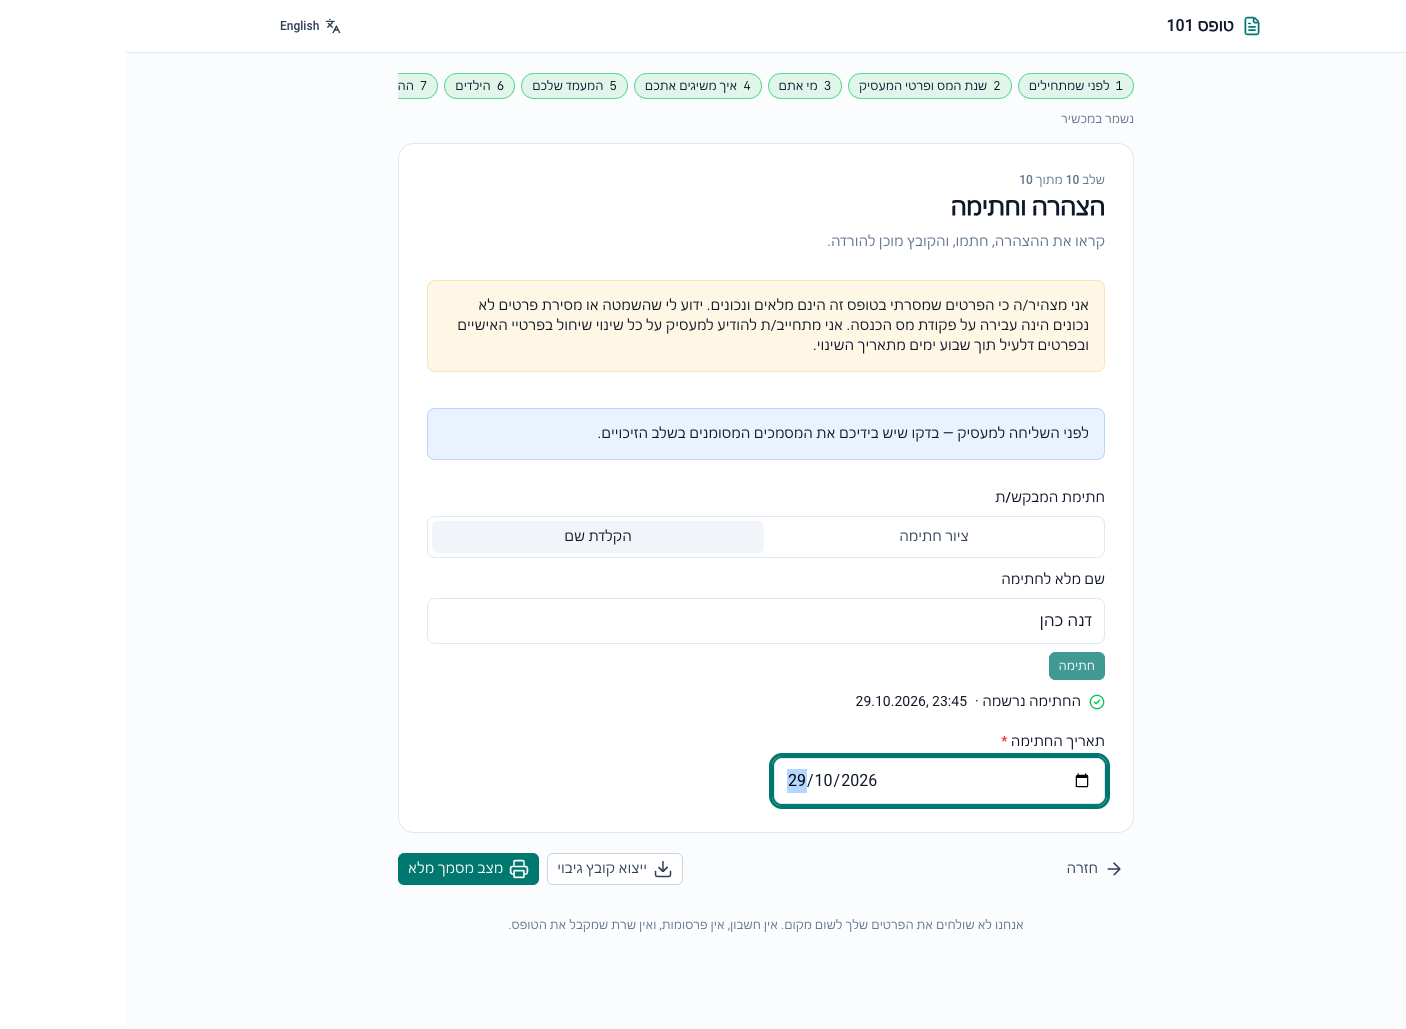
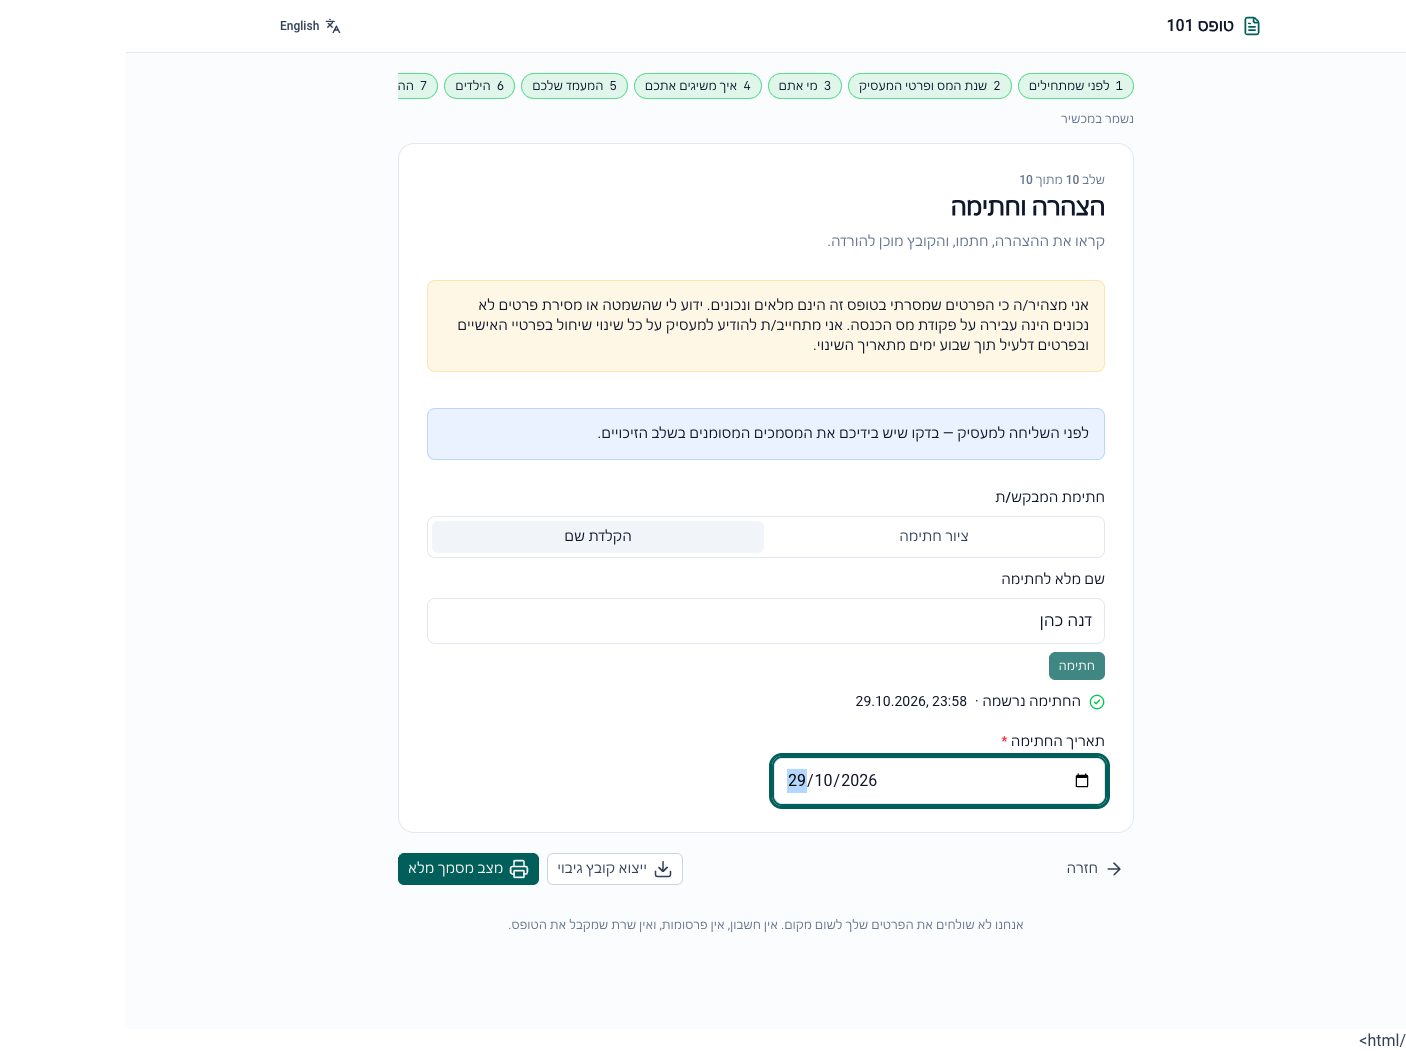
a11y: darker primary (teal-800) for guaranteed AA on solid buttons; CI installs chromium
- fixes the one color-contrast violation CI caught on the sign step
- workflows: playwright install step, 15-min job timeouts

diff --git a/app/assets/css/main.css b/app/assets/css/main.css
@@ -14,7 +14,7 @@
 :root {
   color-scheme: light;
   /* Contrast fix (kb/eng/testing.md): the default Nuxt UI teal fails AA on white. */
-  --ui-primary: var(--color-teal-700);
+  --ui-primary: var(--color-teal-800);
   --ui-text-dimmed: var(--color-slate-600);
 }
 
